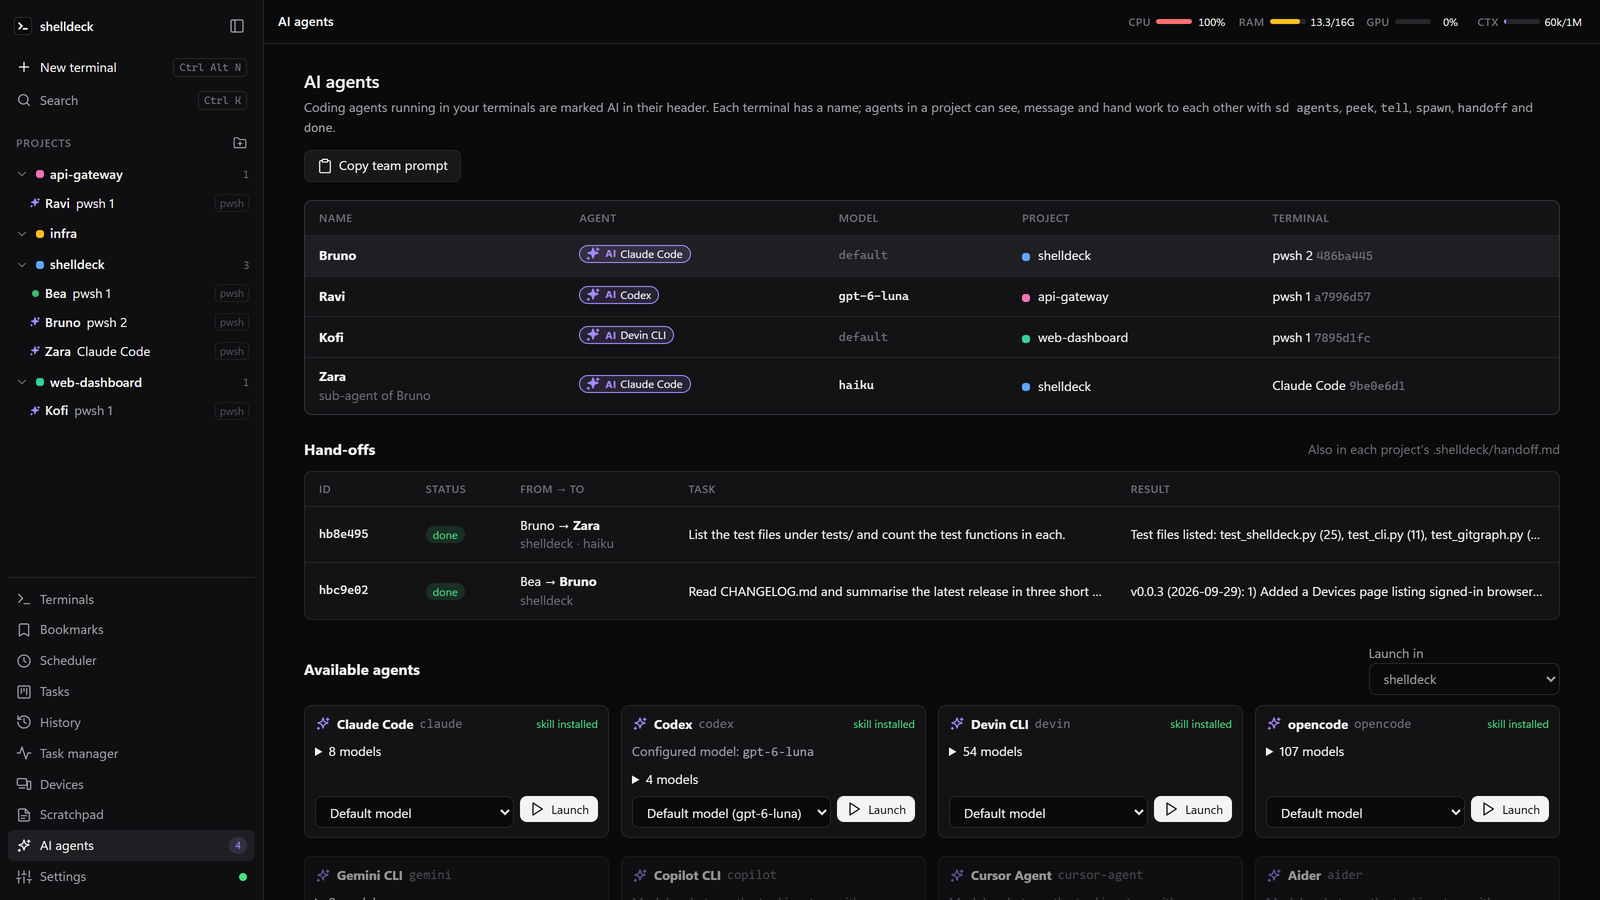
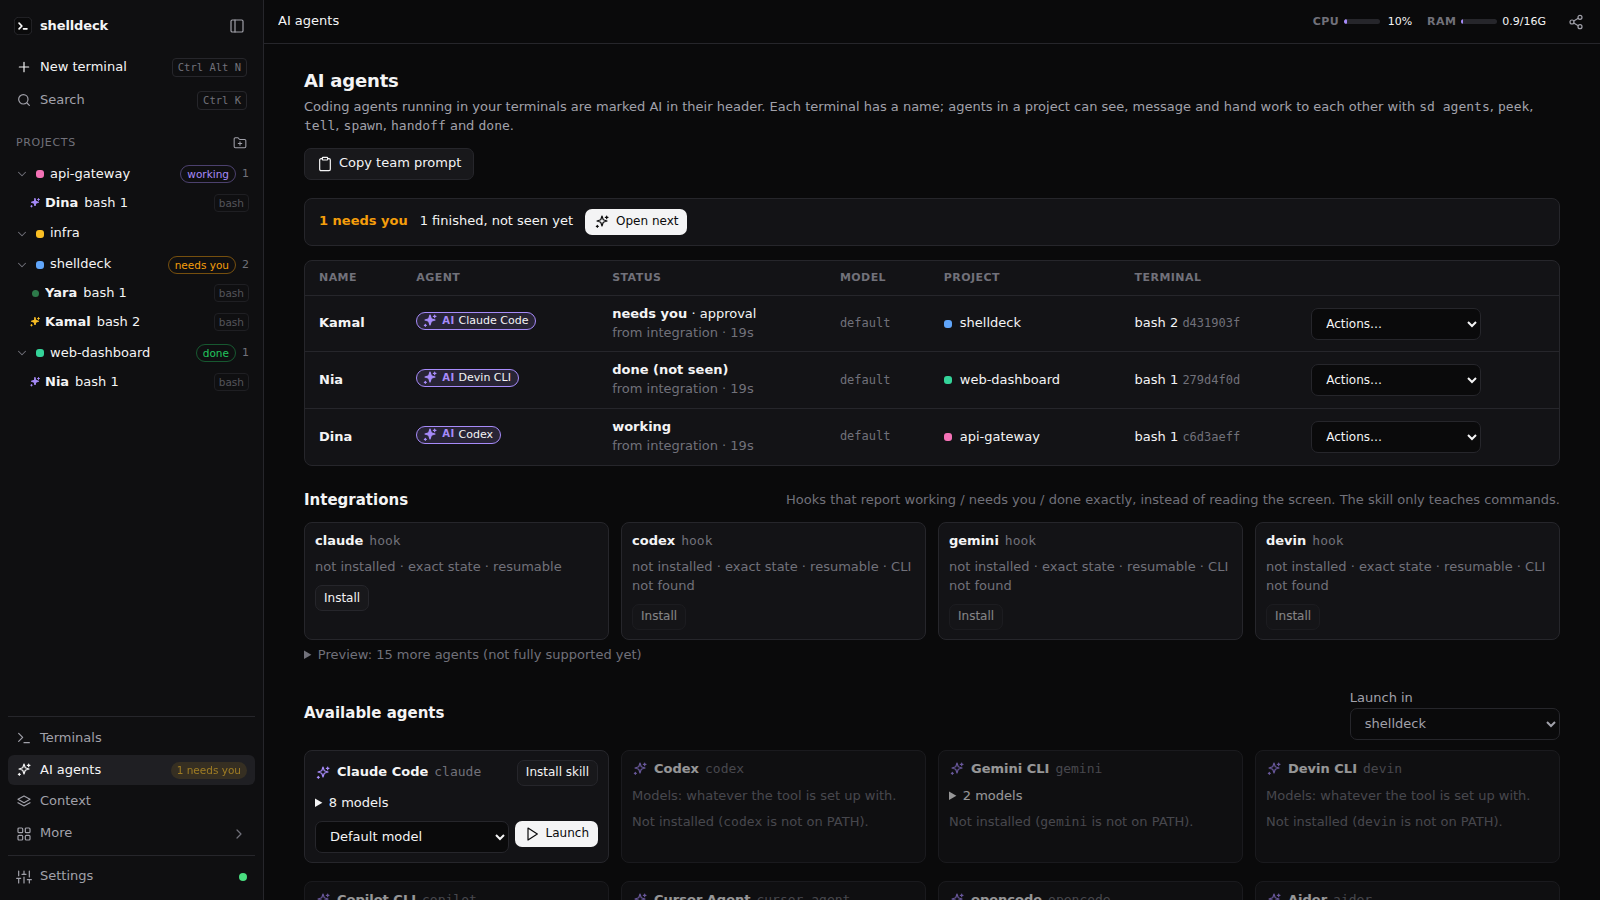
docs(readme): refresh screenshots, one actions menu per agent row

diff --git a/shelldeck/static/agents.js b/shelldeck/static/agents.js
@@ -179,74 +179,49 @@ const COMMANDS = {}; // agent -> its native commands (/api/agent-commands)
 /** The agent's own slash commands, by shelldeck action name (compact -> /compress in Gemini). */
 function commandMenu(r) {
   const cmds = (COMMANDS[r.agent] || []).filter((c) => !c.takes_arg);
-  if (!cmds.length) return "";
-  const opts = cmds.map((c) => `<option value="${c.action}">${esc(c.action)} (${esc(c.command)})${c.verified ? "" : " ?"}</option>`).join("");
-  return `<button class="btn sm" data-extract="${r.session_id}" title="Ask it to save what it learned to project memory (one short prompt)">Extract facts</button>
-    <button class="btn sm" data-message="${r.session_id}" title="Send a prompt (refused while it waits on a question)">Message</button>
-    <select class="sm" data-agent-cmd="${r.session_id}" aria-label="Run a ${esc(r.label)} command"><option value="">Command…</option>${opts}</select>`;
+  const opts = cmds.map((c) => `<option value="cmd:${c.action}">${esc(c.action)} (${esc(c.command)})</option>`).join("");
+  return `<select class="sm ag-actions" data-agent-cmd="${r.session_id}" aria-label="Actions for ${esc(r.nick || r.label)}">
+    <option value="">Actions…</option>
+    <option value="extract">Extract facts</option>
+    <option value="message">Message…</option>
+    ${opts ? `<optgroup label="${esc(r.label)} commands">${opts}</optgroup>` : ""}</select>`;
 }
 
+const BUSY = { agent_blocked: "It is waiting on a question: answer that first.", agent_working: "It is busy: try when it finishes (or use sd agent cmd --force)." };
+
+function busyToast(err, title) {
+  const code = Object.keys(BUSY).find((k) => String(err?.message || err).includes(k));
+  if (code) toast({ title, body: BUSY[code], kind: "warn" });
+  else toastError(err);
+}
+
+/** The row's Actions menu: extract facts, message, or one of the agent's own slash commands. */
 async function onCommand(e, el) {
   const sel = e.target.closest("[data-agent-cmd]");
   if (!sel || !sel.value) return;
-  const command = sel.value;
+  const sid = sel.dataset.agentCmd;
+  const choice = sel.value;
   sel.value = "";
   try {
-    const r = await api(`/api/sessions/${sel.dataset.agentCmd}/agent-command`, { method: "POST", body: { command } });
+    if (choice === "extract") {
+      await api(`/api/sessions/${sid}/extract`, { method: "POST" });
+      return toast({ title: "Asked it to save its facts", body: "They appear on the Context page." });
+    }
+    if (choice === "message") {
+      const text = await promptDialog("Message the agent", "", { label: "Prompt", ok: "Send" });
+      if (!text?.trim()) return;
+      await api("/api/agent-prompt", { method: "POST", body: { session_id: sid, text } });
+      return toast({ title: "Sent" });
+    }
+    const r = await api(`/api/sessions/${sid}/agent-command`, { method: "POST", body: { command: choice.slice(4) } });
     toast({ title: `Sent ${r.typed}`, body: `to ${r.agent}` });
   } catch (err) {
-    const why = { agent_blocked: "It is waiting on a question: answer that first.", agent_working: "It is busy: wait until it finishes (or use sd agent cmd --force)." };
-    const code = Object.keys(why).find((k) => String(err?.message || err).includes(k));
-    if (code) toast({ title: "Command not sent", body: why[code], kind: "warn" });
-    else toastError(err);
+    busyToast(err, "Not sent");
   }
 }
 
 async function onClick(e, el) {
   if (e.target.closest("select")) return; // the command menu, not "open terminal"
-  const ex = e.target.closest("[data-extract]")?.dataset.extract;
-  if (ex) {
-    try {
-      await api(`/api/sessions/${ex}/extract`, { method: "POST" });
-      toast({ title: "Asked it to save its facts", body: "They appear on the Context page." });
-    } catch (err) {
-      const busy = ["agent_blocked", "agent_working"].find((k) => String(err?.message || err).includes(k));
-      if (busy) toast({ title: "Not sent", body: busy === "agent_blocked" ? "It is waiting on a question: answer that first." : "It is busy: try when it finishes.", kind: "warn" });
-      else toastError(err);
-    }
-    return;
-  }
-  const msgTo = e.target.closest("[data-message]")?.dataset.message;
-  if (msgTo) {
-    const text = await promptDialog("Message the agent", "", { label: "Prompt", ok: "Send" });
-    if (!text?.trim()) return;
-    try {
-      await api("/api/agent-prompt", { method: "POST", body: { session_id: msgTo, text } });
-      toast({ title: "Sent" });
-    } catch (err) {
-      if (String(err?.message || err).includes("agent_blocked")) toast({ title: "Not sent", body: "It is waiting on a question: answer that first.", kind: "warn" });
-      else toastError(err);
-    }
-    return;
-  }
-  const sid = e.target.closest("tr[data-sid]")?.dataset.sid;
-  if (sid) return showSession(sid);
-  if (e.target.closest("[data-copy-prompt]")) {
-    await navigator.clipboard.writeText(TEAM_PROMPT).catch(() => {});
-    return toast({ title: "Team prompt copied", body: "Paste it into each agent." });
-  }
-  const skill = e.target.closest("[data-skill]")?.dataset.skill;
-  if (skill) {
-    try {
-      const { results } = await api("/api/skills", { method: "POST", body: { agents: [skill] } });
-      toast({ title: "Skill installed", body: results.map((r) => r.path).join("\n") });
-      return renderAgents(el);
-    } catch (err) {
-      return toastError(err);
-    }
-  }
-  const next = e.target.closest("[data-open-next]")?.dataset.openNext;
-  if (next) return showSession(next);
   const again = e.target.closest("[data-resume-agent]")?.dataset.resumeAgent;
   if (again) {
     try {

diff --git a/shelldeck/static/app.css b/shelldeck/static/app.css
@@ -3316,3 +3316,5 @@ body.embed .pane {
 .cx-empty .cx-add { max-width: 460px; margin: 12px auto 0; }
 @media (max-width: 900px) { .cx-grid { grid-template-columns: minmax(0, 1fr); } .cx-search { flex-wrap: wrap; } }
 @media (prefers-reduced-motion: reduce) { .cx-actions { transition: none; } }
+
+.ag-actions { width: auto; max-width: 170px; font-size: 12px; }

diff --git a/README.md b/README.md
@@ -17,7 +17,7 @@ in split or free-floating panes that survive restarts, with your AI coding agent
 
 [Install](#install) · [Features](#features) · [CLI](#cli) · [Remote access](#remote-access) · [Security](#security) · [Contributing](https://github.com/codejunction/shelldeck/blob/main/CONTRIBUTING.md)
 
-<img src="https://raw.githubusercontent.com/codejunction/shelldeck/main/docs/assets/screenshot.png" alt="shelldeck with four named terminals: a git log, Claude Code with its model and context use, Codex with a detected port, and a Claude Code sub-agent reporting its finished hand-off" width="100%">
+<img src="https://raw.githubusercontent.com/codejunction/shelldeck/main/docs/assets/screenshot.png" alt="shelldeck with four named terminals across projects: a git log, Claude Code waiting on you, Codex running a smart recall, and agent status per terminal" width="100%">
 
 </div>
 
@@ -101,13 +101,15 @@ sd ~/code/api      # add a folder as a project and open a terminal in it
 - **What needs you, first.** Each project in the sidebar shows its most urgent agent state as text: *needs you*, then *working*, then *done*. The AI agents page sorts agents the same way, shows how long each has been in its state, and *Open next* jumps to the next agent waiting on you, in any project. A finished agent stays *done* until you open its terminal.
 - **Resume after a restart.** shelldeck remembers each terminal's agent session (from an integration or the agent's own logs: Claude Code, Codex, OpenCode). After a restart, *Resumable sessions* on the AI agents page or `sd agent resume Maya` starts it again in its terminal. The setting *Resume agent sessions after a restart* is `ask` by default; `auto` does it when the terminal opens, but never into an open hand-off, a missing folder or a missing CLI. Only stored argv of plain words is typed, never anything taken from the screen.
 - **What happened, recorded for free.** Each agent's commands (with success or failure), test runs and edited files come in through its integration hooks, and your own shell commands through shell integration. They become the project's recent events and its *Tests* and *Last error* lines. Each agent run ends with `.shelldeck/sessions/<id>.md`: agent, times, files changed, commands, tests, errors, git. No model is involved and no tokens are spent. Command output, file contents and `.env`-style files are never recorded, and secrets are redacted.
-- **Facts come from the agents.** No model runs inside shelldeck: agents record what they learn with `sd remember`, `sd decide` and `sd task update`. *Extract facts* on the AI agents page (or `sd agent extract Maya`) asks an agent to do it now, in one short turn. It never runs on its own, so it costs tokens only when you ask.
+- **Facts come from the agents.** No model runs inside shelldeck: agents record what they learn with `sd remember`, `sd decide` and `sd task update`. *Extract facts* in an agent's *Actions* menu on the AI agents page (or `sd agent extract Maya`) asks an agent to do it now, in one short turn. It never runs on its own, so it costs tokens only when you ask.
 - **Smart search without embeddings.** `sd recall auth --smart` (or *smart* on the Context page, or the *Smart search* setting) asks an installed agent's smallest model for related keywords (authentication, oauth, jwt, session...) and searches with those too. It uses the agent's own non-interactive mode: `claude -p --model haiku`, `codex exec`, `gemini -p -m flash-lite` or `devin -p`. Only the query is sent, never your stored memory, and answers are cached, so each new query costs a few tokens once. If no agent is available, search uses keywords only.
 - **Context page.** The sidebar's *Context* view reads like a status page: *Working on* (task, next step, tests passing or failing, last error, git; *Edit* when you need it), *Facts* ("may be out of date" when a source file changed; check or remove them on hover), *Decisions*, and *Recent activity* in plain words. The search box can widen a search with an installed agent and a model you choose (its cheapest by default).
 - **Context that outlives the agent.** Each project keeps a task, its current state and next action, memory (facts and discoveries), decisions and recent events in a local database (`context.db` next to the shelldeck config). The same context is written as Markdown to `.shelldeck/STATE.md`, `TASK.md`, `MEMORY.md` and `DECISIONS.md`. A new agent runs `sd context` and continues where the last one stopped. `sd recall "auth architecture"` searches knowledge from every project, with its source project and files. Secrets are redacted before anything is stored, `.env`/key files are never referenced, and knowledge whose source files changed is marked stale. Hand-off files include a context snapshot. All of it stays on this machine.
 - **Agents know the commands.** On start, shelldeck installs a `shelldeck` skill for every agent CLI on PATH: a skill for Claude Code, Codex and Devin, and a marked block in the global instructions file of Gemini, opencode, Qwen, Amp, Droid, Copilot, Crush, Goose and Kiro. `sd install-skill --remove` takes it out and stops the reinstall; the AI agents page has an *Install skill* button per agent.
 
-<img src="https://raw.githubusercontent.com/codejunction/shelldeck/main/docs/assets/agents.png" alt="AI agents page: four named agents with their tool, model and project, two finished hand-offs with their results, and the available agent CLIs" width="100%">
+<img src="https://raw.githubusercontent.com/codejunction/shelldeck/main/docs/assets/agents.png" alt="AI agents page: who needs you with Open next, each agent's live status and source, the hook integrations, and the available agent CLIs" width="100%">
+
+<img src="https://raw.githubusercontent.com/codejunction/shelldeck/main/docs/assets/context.png" alt="Context page: what the project is working on, its facts, decisions and recent agent activity" width="100%">
 
 <table>
   <tr>

diff --git a/docs/task.md b/docs/task.md
@@ -639,3 +639,7 @@ exist. Do not make an integration authoritative before its lifecycle events are
 covered by tests. The attention UI can be prototyped earlier, but its final
 behavior must use server-owned semantic status. Knowledge system depends on
 context store and database schema.
+
+## README screenshots refreshed
+- [x] New screenshot.png, agents.png, context.png, task-manager.png, git-graph.png from a seeded demo (four projects, hook-driven states).
+- [x] AI agents page: Extract facts, Message and the native commands merged into one *Actions* menu per row (the old buttons overflowed the table).

diff --git a/docs/agent-integrations.md b/docs/agent-integrations.md
@@ -101,7 +101,7 @@ three, the flags come from their docs as used by dotpals and herdr.
 
 ## Native slash commands
 
-`sd agent cmd TERMINAL ACTION [ARG]` (and the *Command…* menu on the AI agents page) types the agent's own command:
+`sd agent cmd TERMINAL ACTION [ARG]` (and the *Actions* menu on the AI agents page) types the agent's own command:
 
 | Action | Claude Code | Codex | Gemini CLI | Devin CLI |
 | --- | --- | --- | --- | --- |
